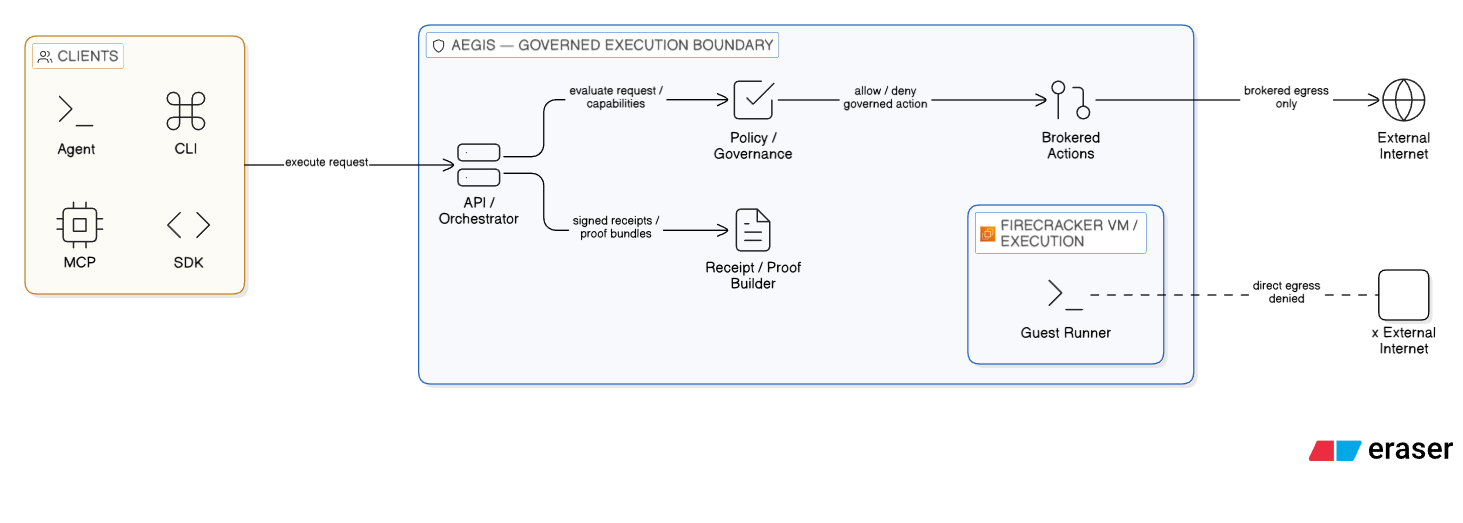
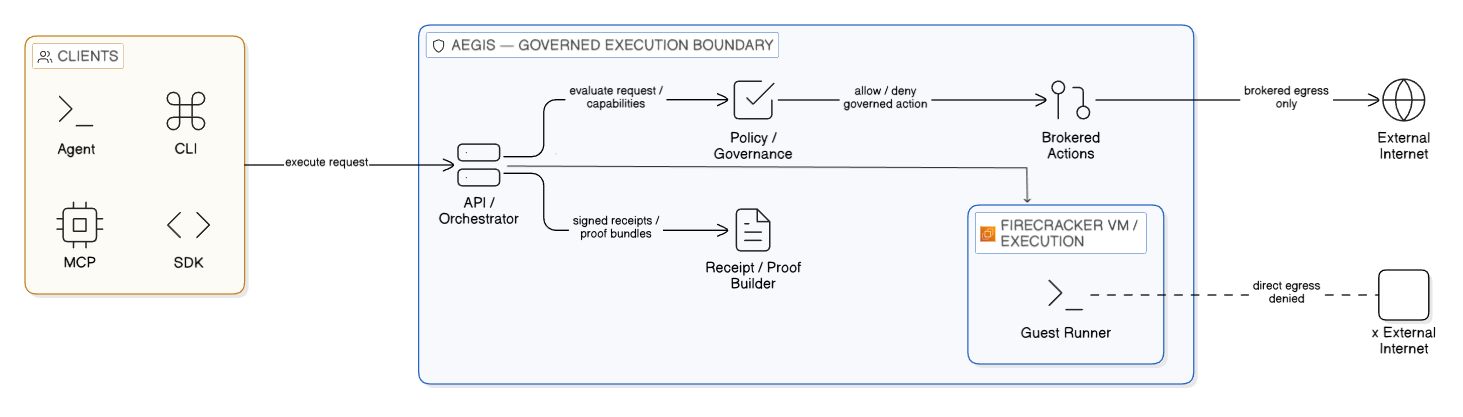
docs: refresh architecture diagram

diff --git a/ai/HANDOFF.md b/ai/HANDOFF.md
@@ -1,15 +1,13 @@
-## Handoff: 2026-04-10 MCP Python runtime hang follow-up
-## Status: BLOCKED
+## Handoff: 2026-04-12 Docs architecture diagram refresh
+## Status: COMPLETE
 ## What shipped:
-- added timeout diagnostics in `guest-runner/main.go` so timed-out Python runs expose `/proc` state, `wchan`, and `syscall`
-- proved the remaining blocker is deeper than MCP request shaping: current WSL-local MCP Python can still time out before user code, even with no workspace writes
-- reverted two unsuccessful debugging experiments: post-open tracer fd inspection and temporary Python `-I -B` startup flags
+- reviewed and prepared the updated `docs/architecture-diagram.png` as the only repo change
+- recorded the docs-only session state in `ai/EXECUTION_LOG.md`
 ## Decisions forced (write to DECISION_LOG.md if significant):
 - none
 ## Remaining in phase:
-- isolate why guest Python startup still stalls under the current guest-runner branch before it reaches the user script
-- then rerun the required MCP matrix for clean print, `/tmp` write/read, forbidden `/etc` write, and malicious `os.system("curl ...")`
+- none for this docs-only update
 ## Blockers:
-- WSL-local MCP Python execution still times out under `divergence_verdict=allow`; observed timeout states now vary between disk-wait, ptrace-stop, and running, so the root cause is still unresolved in guest runtime startup
+- none
 ## Next prompt for Claude:
-The MCP layer is no longer the lead suspect. I added timeout diagnostics and proved current guest Python still times out before user code even on a no-workspace MCP run. Next investigate the guest Python startup/runtime path itself on the current branch, using the execution ids and `wchan/syscall` evidence in `ai/EXECUTION_LOG.md` rather than reopening MCP, broker, or warm-pool work.
+The only shipped change in this session is the refreshed `docs/architecture-diagram.png`. No code paths changed; `CURRENT_PHASE.md` still does not reflect the previously blocked MCP Python runtime investigation, so Claude should decide whether to refresh phase tracking before more runtime work.

diff --git a/ai/EXECUTION_LOG.md b/ai/EXECUTION_LOG.md
@@ -286,3 +286,14 @@ etwork.connect_disabled; real Claude Code validation after registering the serve
   - after reverting the temporary Python startup flags, WSL-local MCP execution `0eb3a8eb-dbce-4e5e-85ce-2d660faae437` still timed out with `State=D`, `wchan=__wait_on_buffer`, `syscall=217`
 - Skipped:
   - final acceptance validation for clean `/tmp` write/read and malicious `os.system("curl ...")`, because the runtime still cannot complete the baseline no-workspace Python MCP execution reliably on the current guest-runner branch
+
+## 2026-04-12 Docs architecture diagram refresh
+- Implemented:
+  - reviewed the updated `docs/architecture-diagram.png` and confirmed it is the only working-tree change
+  - prepared the repo for a docs-only commit by recording this session state
+- Verified:
+  - visually inspected `docs/architecture-diagram.png`
+  - `git -c safe.directory=C:/Users/Cellardoor/projects/Aegis status --short --branch` showed only `docs/architecture-diagram.png` modified on `main`
+  - `git -c safe.directory=C:/Users/Cellardoor/projects/Aegis diff --stat -- docs/architecture-diagram.png` confirmed a binary-only image replacement
+- Skipped:
+  - no code, API, or SDK validation, because this session only stages a documentation image update
